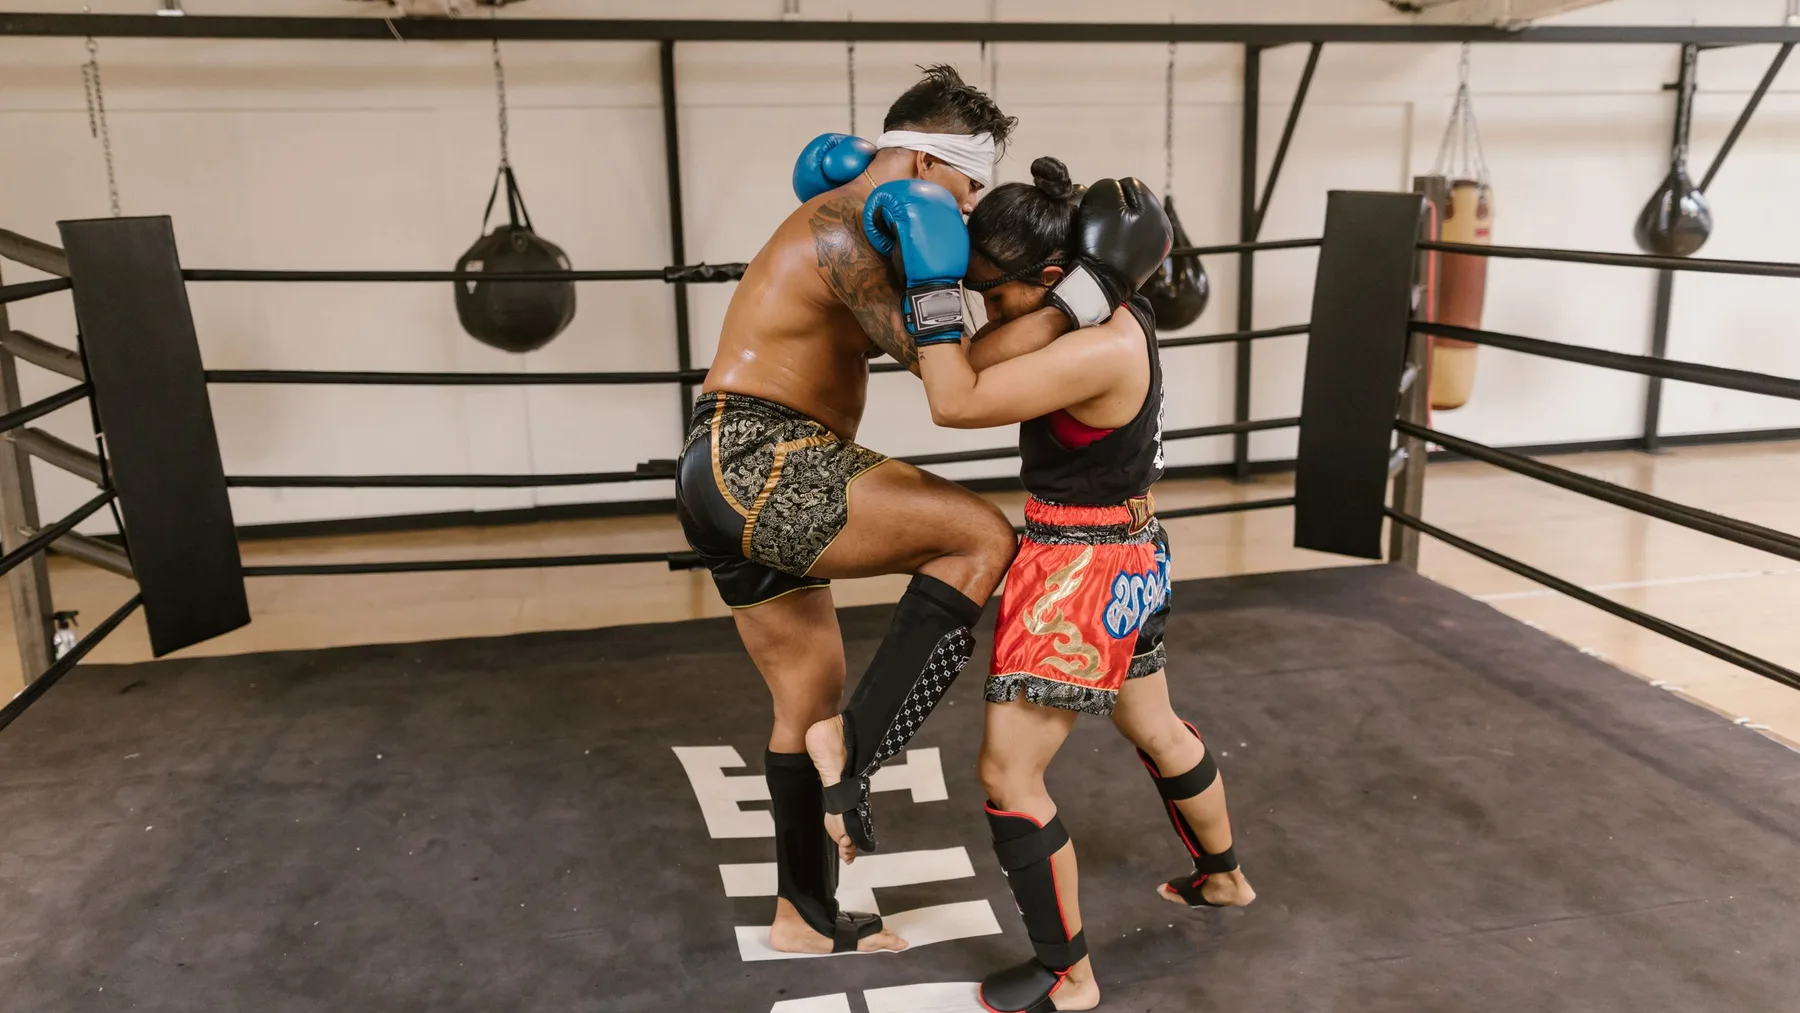
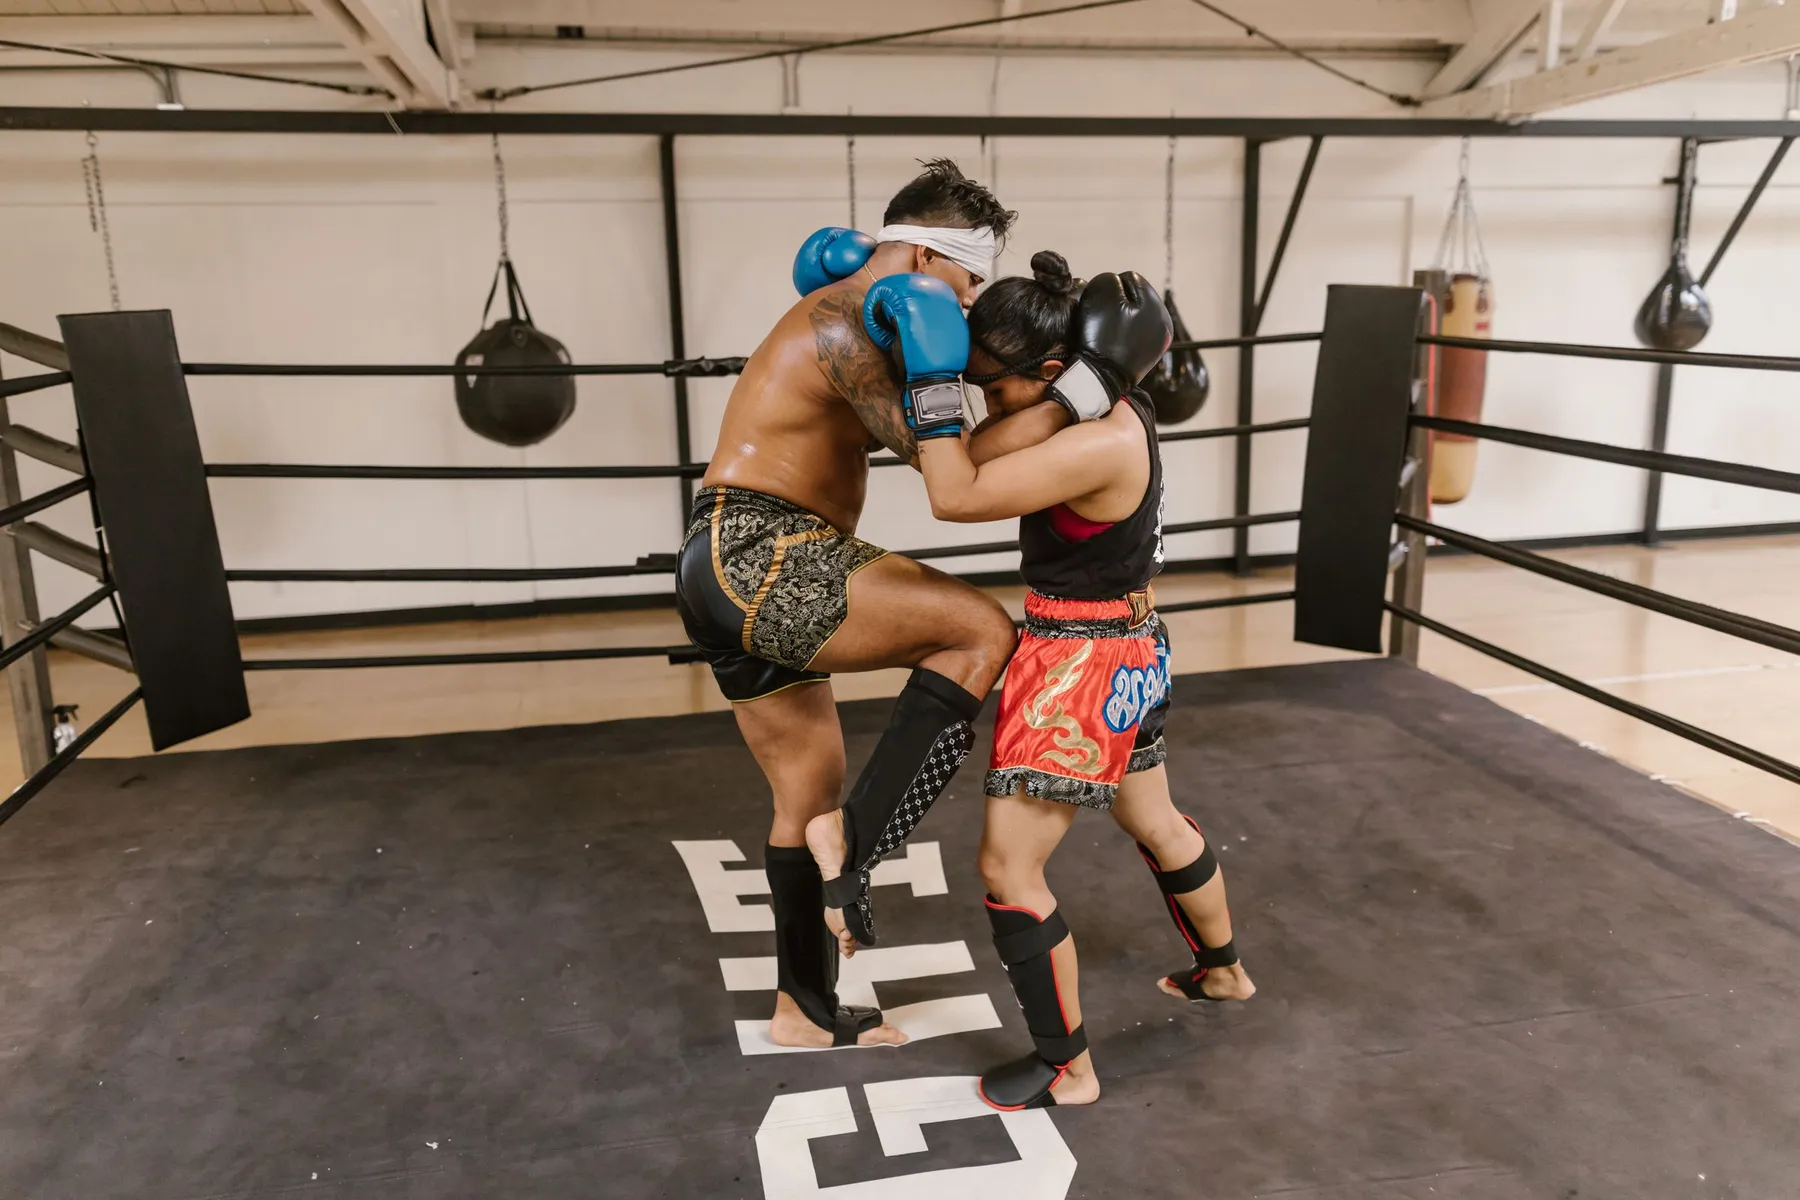
Make the hero photo the backdrop of the whole section
The photo was a band between the tagline and the zone type. It now sits
behind the entire hero and fills it.

Recut to the source 3:2 instead of a 16:9 band: as a backdrop the image
is cropped hard on tall, narrow viewports, so it needs the height.

Legibility is carried by two layers, not by luck — the photo is
desaturated and dimmed to 42%, and a gradient runs over it from 65%
black at the top to solid black at the bottom, so the scale at the
bottom edge keeps a calm ground. Light chalk text stays above 10:1 on
the brightest part of the gym, secondary text above 6:1.

No overflow clipping on the section: the backdrop is inset-0 and
object-cover crops inside the element, so nothing can overflow, and a
clip would only cut the focus ring of the full-bleed slider at the edge.

diff --git a/src/components/DistanceHero.tsx b/src/components/DistanceHero.tsx
@@ -54,34 +54,22 @@ export function DistanceHero() {
     <section
       id="distanz"
       aria-labelledby="distanz-titel"
-      className="grid min-h-[88vh] content-between gap-s4 pt-s5"
+      // Kein `overflow-hidden`: der Hintergrund liegt auf `inset-0` und
+      // `object-cover` beschneidet im Element selbst, es läuft nichts über.
+      // Ein Überlauf-Schnitt würde nur den Fokusrahmen des randlosen Reglers
+      // an der Kante abschneiden.
+      className="relative isolate grid min-h-[88vh] content-between gap-s4 pt-s5"
     >
-      <div className="grid gap-s3 px-[clamp(1.125rem,4vw,3.5rem)]">
-        <h1 id="distanz-titel" className="sr-only">
-          FightLab — Kampfsportschule für Muay Thai und Kickboxen in
-          Wien-Meidling
-        </h1>
-        <p className="data flex flex-wrap gap-y-s1 gap-x-s3 text-[0.6563rem] tracking-[0.2em] text-chalk2">
-          <span>FightLab Wien Meidling</span>
-          <span>{site.disciplines}</span>
-          <span className="text-signal">{site.opening}</span>
-        </p>
-        <p className="m-0 max-w-[30ch] text-[clamp(1.0625rem,1.7vw,1.375rem)] leading-[1.4] italic">
-          {site.tagline}
-        </p>
-      </div>
-
-      {/* Bildband zur Zone. Angeschnitten wie das rote Band, nie eingerahmt.
-          Alle drei Bilder liegen übereinander und wechseln nur die Deckkraft —
-          ein Zustandswechsel, keine Scroll-Bewegung, und beim Ziehen am Regler
-          bleibt der Wechsel ohne Nachladen. Entsättigt, weil die Halle sonst
-          mit Blau und Rot gegen die Palette arbeitet.
+      {/* Bild zur Zone, hinter dem ganzen Abschnitt.
+          Alle drei liegen übereinander und wechseln nur die Deckkraft — ein
+          Zustandswechsel, keine Scroll-Bewegung, und beim Ziehen am Regler
+          wechselt das Bild ohne Nachladen.
+          Entsättigt und abgedunkelt, darüber ein Verlauf: die Halle ist hell,
+          und die Schrift darauf muss lesbar bleiben — nach unten läuft er ins
+          volle Schwarz, damit die Skala auf ruhigem Grund sitzt.
           Aus der Vorlesereihenfolge genommen: Zone, Abstand und Trefferbild
           spricht der Regler über `aria-valuetext` bereits aus. */}
-      <div
-        aria-hidden
-        className="relative h-[clamp(7rem,20vh,15rem)] overflow-hidden border-y border-nightline bg-night2"
-      >
+      <div aria-hidden className="absolute inset-0 -z-10">
         {zones.map((item) => (
           <motion.div
             key={item.key}
@@ -98,10 +86,26 @@ export function DistanceHero() {
               // Der Regler startet in der Mitte — dieses Bild trägt den ersten
               // Bildaufbau, die beiden anderen dürfen danach kommen.
               priority={item.key === "mid"}
-              className="object-cover object-[50%_35%] [filter:grayscale(1)_contrast(1.06)_brightness(0.74)]"
+              className="object-cover object-[50%_38%] [filter:grayscale(1)_contrast(1.05)_brightness(0.42)]"
             />
           </motion.div>
         ))}
+        <div className="absolute inset-0 bg-gradient-to-t from-night via-night/85 to-night/65" />
+      </div>
+
+      <div className="grid gap-s3 px-[clamp(1.125rem,4vw,3.5rem)]">
+        <h1 id="distanz-titel" className="sr-only">
+          FightLab — Kampfsportschule für Muay Thai und Kickboxen in
+          Wien-Meidling
+        </h1>
+        <p className="data flex flex-wrap gap-y-s1 gap-x-s3 text-[0.6563rem] tracking-[0.2em] text-chalk2">
+          <span>FightLab Wien Meidling</span>
+          <span>{site.disciplines}</span>
+          <span className="text-signal">{site.opening}</span>
+        </p>
+        <p className="m-0 max-w-[30ch] text-[clamp(1.0625rem,1.7vw,1.375rem)] leading-[1.4] italic">
+          {site.tagline}
+        </p>
       </div>
 
       <div className="grid">
